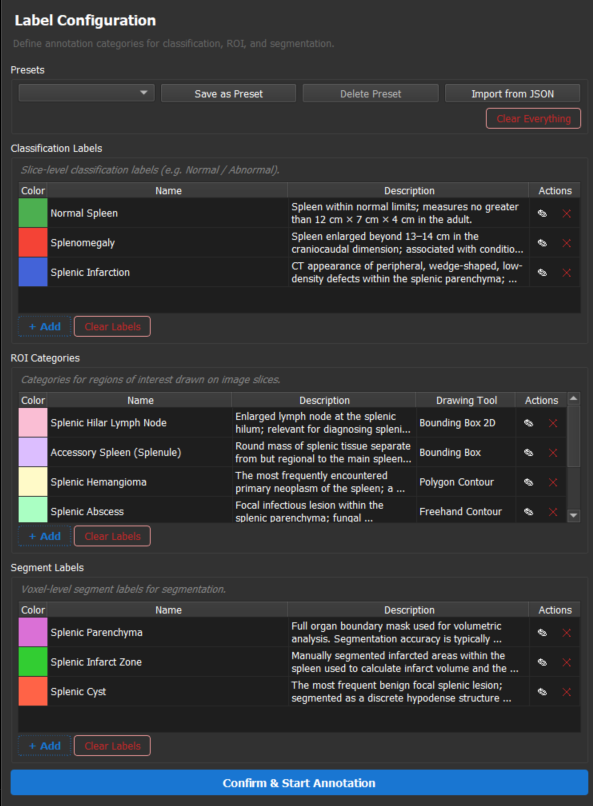
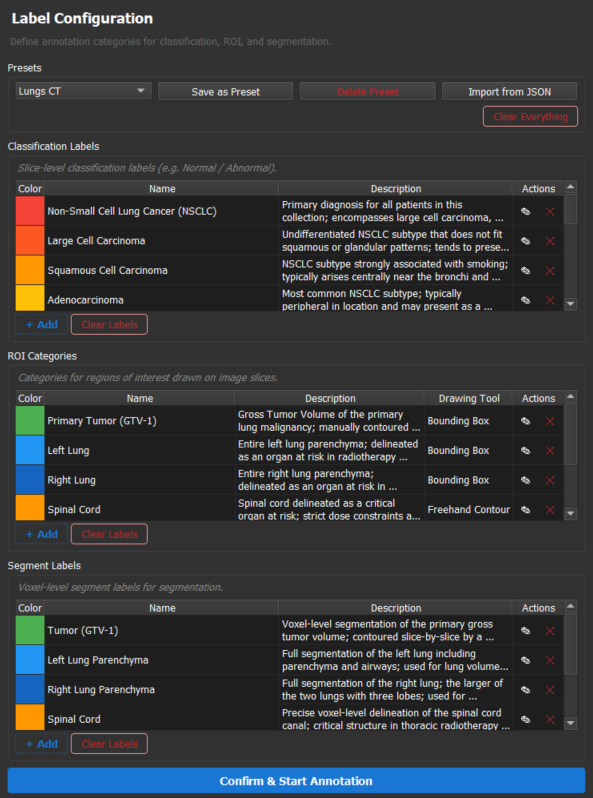
docs: refresh feature guide copy and screenshots
Update the label-configuration example text and replace UI screenshots
to reflect the current panel appearance after recent UI work.

diff --git a/FEATURES.md b/FEATURES.md
@@ -73,7 +73,7 @@ Import restores classification rows, ROI markups, segmentation masks, and label 
 
 **User Value:** Forces intentional schema design before annotation begins, reducing rework and ensuring export consistency.
 
-**Typical Use Case:** A project lead defines five ROI categories (organ, lesion, artifact, etc.) each bound to the appropriate drawing tool (polygon for organs, bounding box for lesions, line for measurements).
+**Typical Use Case:** A project lead defines ROI categories each bound to the appropriate drawing tool.
 
 ![Annotation Panel label configuration screen](static/label-config-screenshot.png)
 
